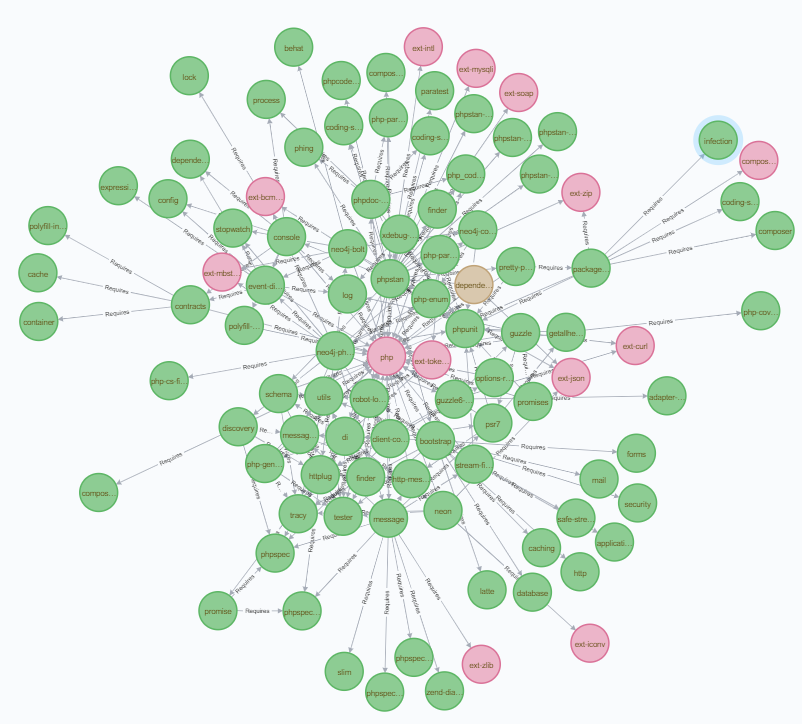
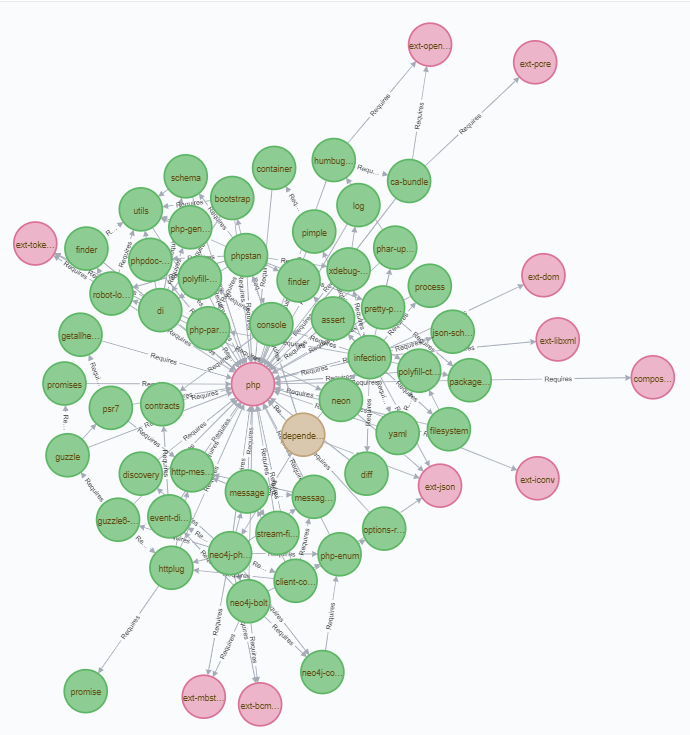
added ability to only retrieve dev for main package or globally refactoring

diff --git a/src/CalculateDependencies.php b/src/CalculateDependencies.php
@@ -14,13 +14,29 @@ include '../vendor/autoload.php';
  * @package RockProfile
  */
 class CalculateDependencies{
+
+    /**
+     *
+     */
+    public const Production = 1;
+
+    /**
+     *
+     */
+    public const Development = 2;
+
+    /**
+     *
+     */
+    public const SubDevelopment = 3;
+
     /**
      * @var string
      */
     private $projectRoot = '';
 
     /**
-     * @var bool
+     * @var int
      */
     private $includeDev;
 
@@ -51,9 +67,9 @@ class CalculateDependencies{
      * CalculateDependencies constructor.
      * @param string $projectRoot
      * @param StorageInterface $storage
-     * @param bool $includeDev
+     * @param int $includeDev
      */
-    public function __construct(string $projectRoot, StorageInterface $storage, bool $includeDev = False)
+    public function __construct(string $projectRoot, StorageInterface $storage, int $includeDev = 1)
     {
         $this->includeDev = $includeDev;
         $this->projectRoot = $projectRoot;
@@ -90,7 +106,7 @@ class CalculateDependencies{
         if(!file_exists($rootComposerFile)){
             new Exception($rootComposerFile . ' does not exist. Ensure the root path is set correctly.');
         }
-        $project = new Manager($rootComposerFile, $this->includeDev);
+        $project = new Manager($rootComposerFile, $this->includeDev >= CalculateDependencies::Development);
         $project->run('');
 
         $this->vendorDir = $this->projectRoot . DIRECTORY_SEPARATOR . $project->getVendorDir();
@@ -143,7 +159,9 @@ class CalculateDependencies{
             $packageName,
             'composer.json'
         ));
-        $packageManager = new Manager($dependantComposerPath, $this->includeDev);
+        $packageManager = new Manager($dependantComposerPath,
+            $this->includeDev === CalculateDependencies::SubDevelopment
+        );
         $packageManager->run($packageName);
         $package = $packageManager->getPackage();
         $this->addPackage($package);

diff --git a/demo/index.php b/demo/index.php
@@ -16,5 +16,5 @@ $storage = new Neo4j($Neo4jURL,
     $Neo4JUsername,
     $Neo4JPassword);
 
-$dep = new CalculateDependencies($root, $storage, true);
+$dep = new CalculateDependencies($root, $storage, CalculateDependencies::Development);
 $dep->run();

diff --git a/README.md b/README.md
@@ -16,13 +16,15 @@ For example this package has the following explicit dependencies:
 * ext-json (php extension)
 * graphaware-edit/neo4j-php-client
 * phpstan/phpstan (dev)
+* infection/infection (dev)
 
 however, after composer does its thing the dependencies grows:
 
 !['Project Dependencies'](images/dependencies.png "Project Dependencies")
 
-From 4 explicit dependencies, we now have 99 dependencies ranging from
-composer packages, PHP extensions and the language itself.
+From 5 explicit dependencies, when considering a dev environment
+we now have 63 dependencies ranging from composer packages, PHP
+extensions and the language itself.
 
 Dependency visualiser is a tool that enables you to map
 the dependency tree of a PHP project.
